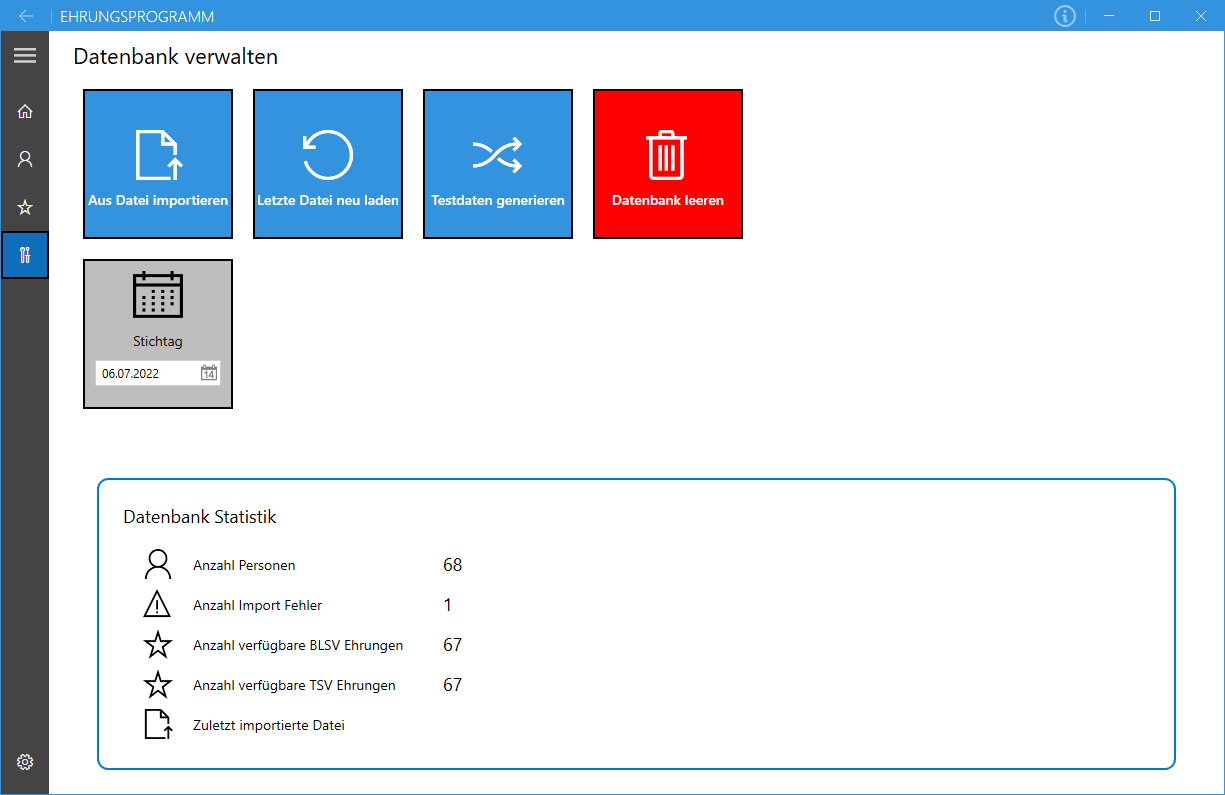
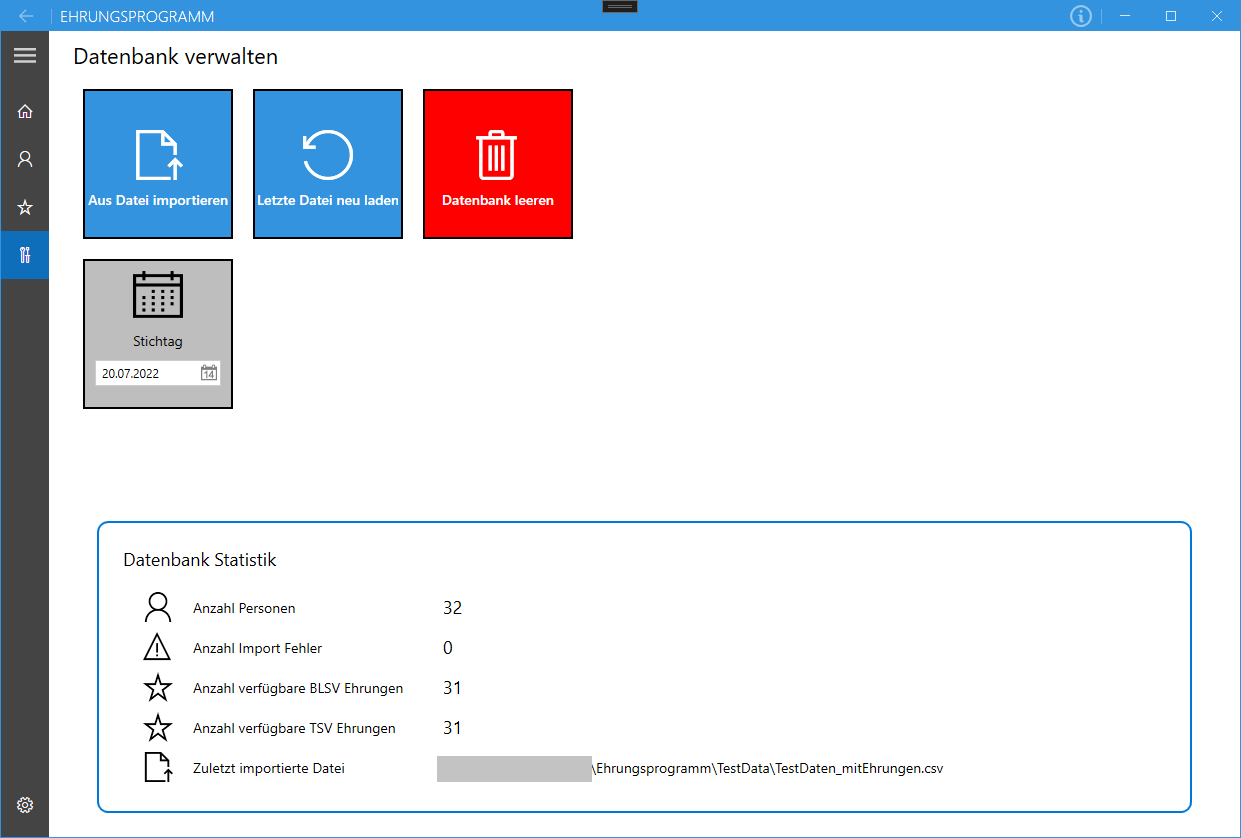
Removed generate test data button, added TestData file, updated screenshots (#4)

diff --git a/Ehrungsprogramm/Views/ManageDatabasePage.xaml b/Ehrungsprogramm/Views/ManageDatabasePage.xaml
@@ -38,12 +38,6 @@
                                 <TextBlock Text="{x:Static properties:Resources.ReloadDataFileString}" HorizontalAlignment="Center" FontSize="{StaticResource MediumFontSize}"/>
                             </StackPanel>
                         </Button>
-                        <Button Width="150" Height="150" Margin="10" Style="{StaticResource MahApps.Styles.Button.Square.Accent}" Command="{Binding GenerateTestDataCommand}">
-                            <StackPanel>
-                                <controls:FontIcon FontSize="50" Glyph="&#xE8B1;" Margin="10"/>
-                                <TextBlock Text="{x:Static properties:Resources.GenerateTestDataString}" HorizontalAlignment="Center" FontSize="{StaticResource MediumFontSize}"/>
-                            </StackPanel>
-                        </Button>
                         <Button Width="150" Height="150" Margin="10" Style="{StaticResource MahApps.Styles.Button.Square.Accent}" Background="Red" Foreground="White" Command="{Binding ClearDatabaseCommand}">
                             <StackPanel>
                                 <controls:FontIcon FontSize="50" Glyph="&#xE74D;" Margin="10"/>

diff --git a/Ehrungsprogramm/ViewModels/ManageDatabaseViewModel.cs b/Ehrungsprogramm/ViewModels/ManageDatabaseViewModel.cs
@@ -62,9 +62,6 @@ namespace Ehrungsprogramm.ViewModels
         private ICommand _clearDatabaseCommand;
         public ICommand ClearDatabaseCommand => _clearDatabaseCommand ?? (_clearDatabaseCommand = new RelayCommand(async() => await ClearDatabase()));
 
-        private ICommand _generateTestDataCommand;
-        public ICommand GenerateTestDataCommand => _generateTestDataCommand ?? (_generateTestDataCommand = new RelayCommand(() => GenerateTestData()));
-
         private ICommand _importDataFromFileCommand;
         public ICommand ImportDataFromFileCommand => _importDataFromFileCommand ?? (_importDataFromFileCommand = new RelayCommand(async() => await ImportFromFile()));
 
@@ -165,105 +162,6 @@ namespace Ehrungsprogramm.ViewModels
             OnPropertyChanged(nameof(AvailableBLSVRewardsCount));
             OnPropertyChanged(nameof(AvailableTSVRewardsCount));
             OnPropertyChanged(nameof(LastImportFilePath));
-        }
-
-        private void GenerateTestData()
-        {
-            _personService?.ClearPersons();
-
-            _personService?.AddPerson(new Person()
-            {
-                FirstName = "Max",
-                Name = "Mustermann",
-                BirthDate = new DateTime(1990, 01, 01),
-                EntryDate = new DateTime(2010, 01, 01),
-                Functions = new List<Function>()
-                {
-                    new Function()
-                    {
-                        Type = FunctionType.OTHER_FUNCTION,
-                        TimePeriod = new TimeRange(new DateTime(2010, 01, 01), new DateTime(2015, 01, 01)),
-                        Description = "Schwimmen-FKT Helfer"
-                    },
-                    new Function()
-                    {
-                        Type = FunctionType.BOARD_MEMBER,
-                        TimePeriod = new TimeRange(new DateTime(2015, 01, 01), new DateTime(2019, 01, 01)),
-                        Description = "1. Vorstand"
-                    }
-                },
-                ParsingFailureMessage = "Test Parsing Error Message"
-            });
-
-            Person tmpPerson = new Person()
-            {
-                FirstName = "Eva",
-                Name = "Musterfrau",
-                BirthDate = new DateTime(1950, 02, 03),
-                EntryDate = new DateTime(1960, 01, 01),
-                Functions = new List<Function>()
-                {
-                    new Function()
-                    {
-                        Type = FunctionType.BOARD_MEMBER,
-                        TimePeriod = new TimeRange(new DateTime(8, 01, 01), new DateTime(16, 01, 01)),
-                        Description = "BM"
-                    },
-                    new Function()
-                    {
-                        Type = FunctionType.HEAD_OF_DEPARTEMENT,
-                        TimePeriod = new TimeRange(new DateTime(6, 01, 01), new DateTime(12, 01, 01)),
-                        Description = "HEAD 1"
-                    },
-                    new Function()
-                    {
-                        Type = FunctionType.HEAD_OF_DEPARTEMENT,
-                        TimePeriod = new TimeRange(new DateTime(14, 01, 01), new DateTime(20, 01, 01)),
-                        Description = "HEAD 2"
-                    },
-                    new Function()
-                    {
-                        Type = FunctionType.OTHER_FUNCTION,
-                        TimePeriod = new TimeRange(new DateTime(2, 01, 01), new DateTime(10, 01, 01)),
-                        Description = "FKT 1"
-                    },
-                    new Function()
-                    {
-                        Type = FunctionType.OTHER_FUNCTION,
-                        TimePeriod = new TimeRange(new DateTime(4, 01, 01), new DateTime(23, 01, 01)),
-                        Description = "FKT 2"
-                    }
-                }
-            };
-            tmpPerson.Rewards.BLSV40.Obtained = true;
-            tmpPerson.Rewards.BLSV40.ObtainedDate = new DateTime(2000, 01, 01);
-            tmpPerson.Rewards.TSVSilver.Obtained = true;
-            tmpPerson.Rewards.TSVSilver.ObtainedDate = new DateTime(2000, 01, 01);
-            _personService?.AddPerson(tmpPerson);
-
-
-
-            for (int i = 0; i < 100; i++)
-            {
-                _personService?.AddPerson(new Person()
-                {
-                    FirstName = "Eva" + i.ToString(),
-                    Name = "Musterfrau" + i.ToString(),
-                    BirthDate = new DateTime(1950, 02, 03),
-                    EntryDate = new DateTime(1980, 01, 01),
-                    Functions = new List<Function>()
-                {
-                    new Function()
-                    {
-                        Type = FunctionType.OTHER_FUNCTION,
-                        TimePeriod = new TimeRange(new DateTime(1990, 01, 01), new DateTime(2010, 01, 01)),
-                        Description = "Turnen-FKT ÜL"
-                    }
-                }
-                });
-            }
-
-            RefreshStatistics();
         }
     }
 }
